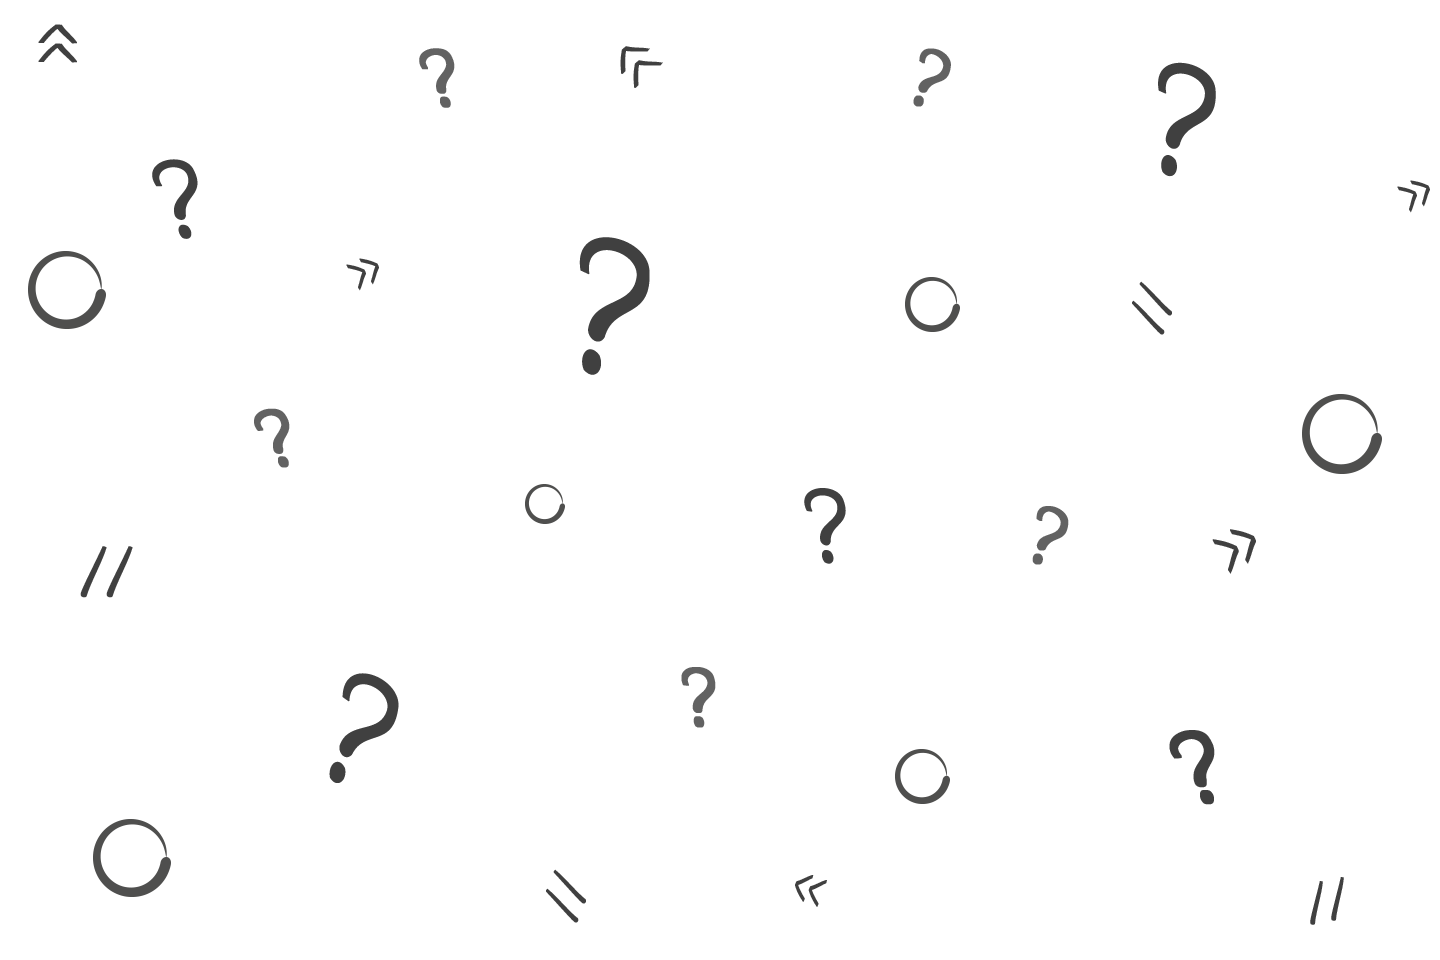
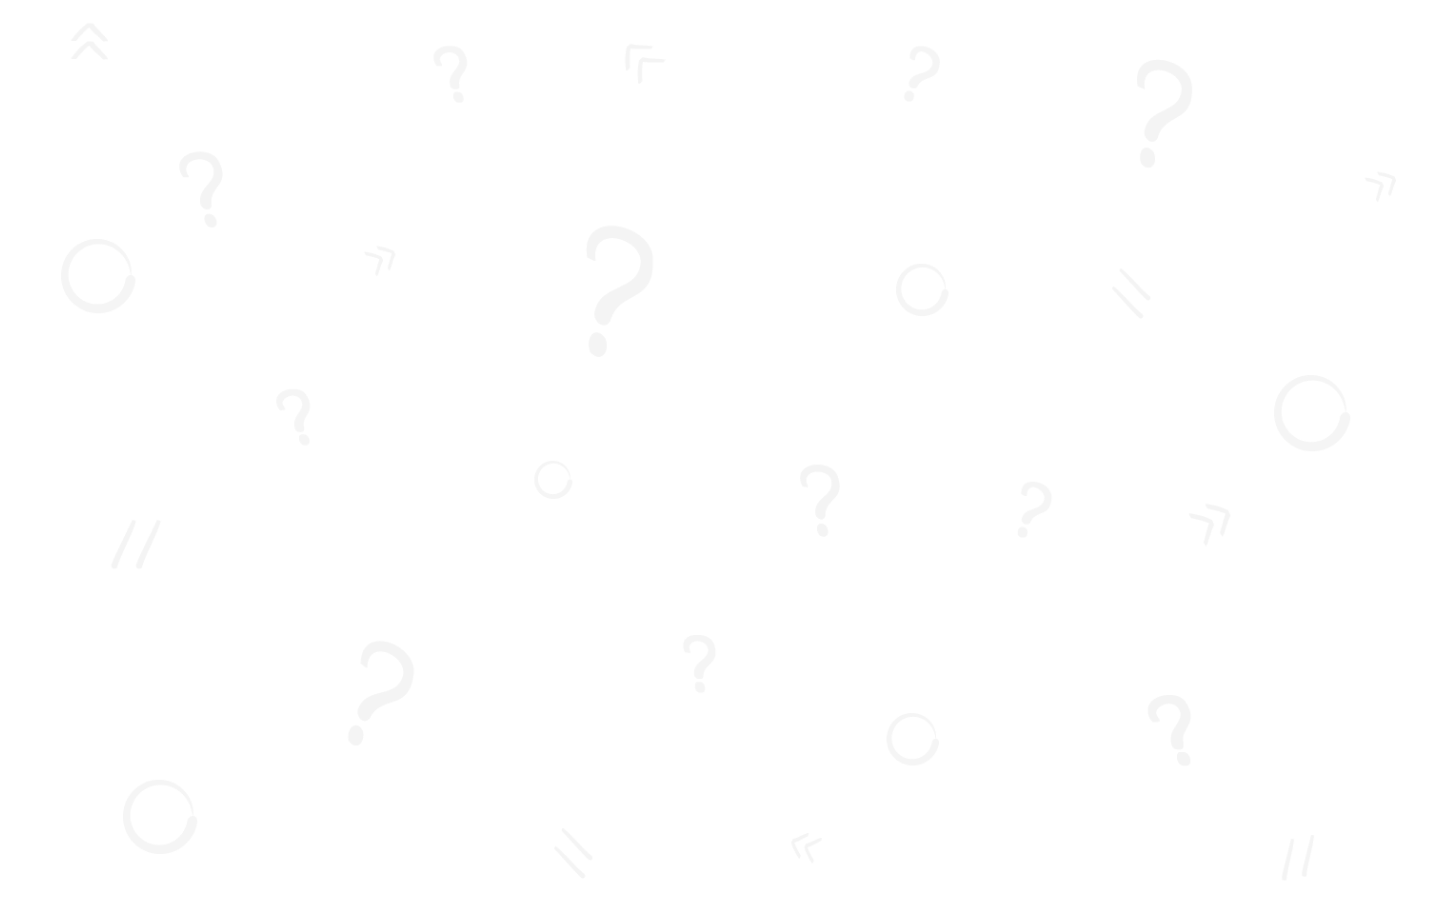
backgroundcolor has been updated for the sections

diff --git a/src/index.html b/src/index.html
@@ -111,7 +111,9 @@
             </div>
         </div>
         </div>
-        <div class="section-second-title"><h4>HOW TO IDENTIFY</h4></div>
+        <!-- <div class="section-second-title"><h4>HOW TO IDENTIFY</h4></div> -->
+        <div class="section-second-title"><h4>КАК ПРОЯВЛЯЕТСЯ</h4></div>
+        
         <div class="content-container">
             <div style="margin-right: 20px;">These all combine to form a sort of internal feedback 
                 loop that can lead to lost hours of productivity, bugs, 
@@ -143,7 +145,8 @@
             <img class="image-alignment" src="./assets/images/2.png" alt="IKEA effect image">
         </div>
         </div>
-        <div class="section-second-title"><h4>HOW TO IDENTIFY</h4></div>
+        <!-- <div class="section-second-title"><h4>HOW TO IDENTIFY</h4></div> -->
+        <div class="section-second-title"><h4>КАК ПРОЯВЛЯЕТСЯ</h4></div>
         <div class="content-container">
             <div style="margin-right: 20px;">These all combine to form a sort of internal feedback 
                 loop that can lead to lost hours of productivity, bugs, 
@@ -177,7 +180,8 @@
         </div>
        
         </div>
-        <div class="section-second-title"><h4>HOW TO IDENTIFY</h4></div>
+        <!-- <div class="section-second-title"><h4>HOW TO IDENTIFY</h4></div> -->
+        <div class="section-second-title"><h4>КАК ПРОЯВЛЯЕТСЯ</h4></div>
         <div class="content-container">
             <div style="margin-right: 20px;">These all combine to form a sort of internal feedback 
                 loop that can lead to lost hours of productivity, bugs, 
@@ -208,7 +212,8 @@
             <img class="image-alignment" src="./assets/images/4.png" alt="IKEA effect image">
         </div>
         </div>
-        <div class="section-second-title"><h4>HOW TO IDENTIFY</h4></div>
+        <!-- <div class="section-second-title"><h4>HOW TO IDENTIFY</h4></div> -->
+        <div class="section-second-title"><h4>КАК ПРОЯВЛЯЕТСЯ</h4></div>
         <div class="content-container">
             <div style="margin-right: 20px;">These all combine to form a sort of internal feedback 
                 loop that can lead to lost hours of productivity, bugs, 
@@ -239,7 +244,8 @@
             </div>
            
             </div>
-            <div class="section-second-title"><h4>HOW TO IDENTIFY</h4></div>
+            <!-- <div class="section-second-title"><h4>HOW TO IDENTIFY</h4></div> -->
+            <div class="section-second-title"><h4>КАК ПРОЯВЛЯЕТСЯ</h4></div>
             <div class="content-container">
                 <div style="margin-right: 20px;">These all combine to form a sort of internal feedback 
                     loop that can lead to lost hours of productivity, bugs, 

diff --git a/src/styles/style.css b/src/styles/style.css
@@ -80,6 +80,7 @@ section {
   justify-content: center;
   flex-direction: column;
   overflow: hidden;
+  background-color: var(--normal-light);
 }
 
 .section::before {
@@ -91,7 +92,6 @@ section {
   right: 0px;
   bottom: 0px;
   left: 0px;
-  opacity: 0.1;
 }
 
 .title {
@@ -104,7 +104,7 @@ section {
   /* height: 525px; */
   position: relative;
   width: 80%;
-  right: -438px;
+  right: -450px;
   top: 55px;
 }
 
